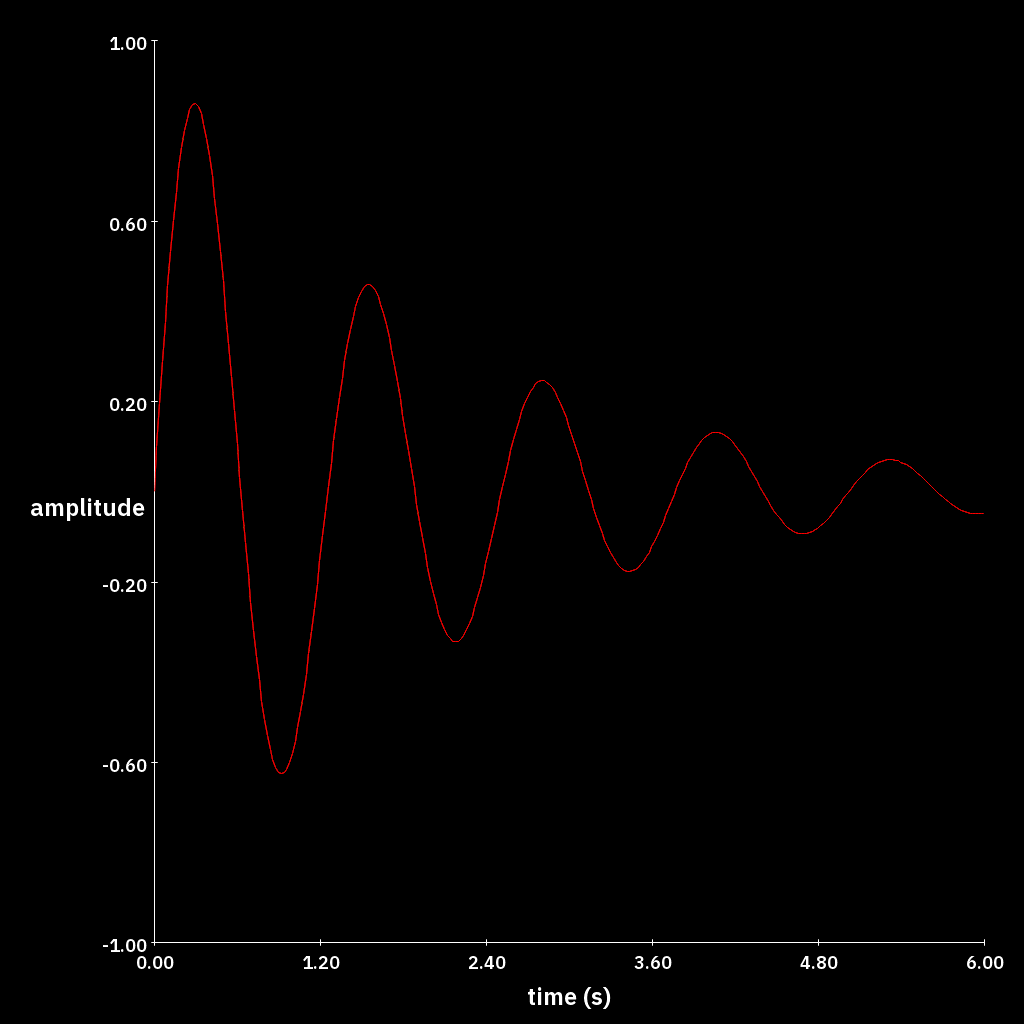
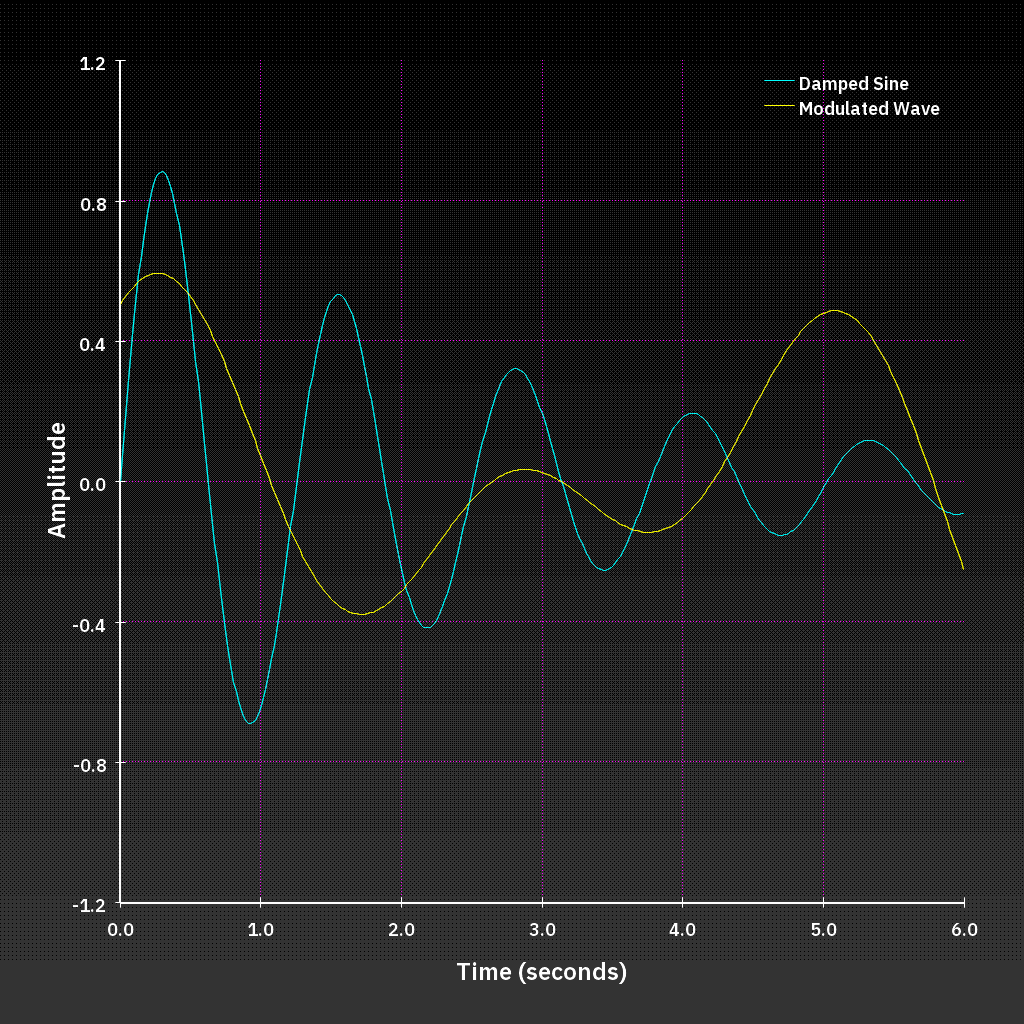
.

diff --git a/examples/graph/example_graph.cpp b/examples/graph/example_graph.cpp
@@ -9,7 +9,6 @@ using namespace constixel;
 using large_font = ibmplexsans_semibold_24_aa;
 using small_font = ibmplexsans_semibold_18_aa;
 
-// Graph configuration
 constexpr char x_label[] = "Time (seconds)";
 constexpr char y_label[] = "Amplitude";
 constexpr float axis_xmin = 0.0f;
@@ -17,16 +16,15 @@ constexpr float axis_xmax = 6.0f;
 constexpr float axis_ymin = -1.2f;
 constexpr float axis_ymax = +1.2f;
 
-// Color palette
 const uint8_t col_bg_dark = color::BLACK;
-const uint8_t col_bg_light = color::DARK_GRAY;
+const uint8_t col_bg_light = 8;
 const uint8_t col_axis = color::WHITE;
-const uint8_t col_grid = color::GRAY;
+const uint8_t col_grid = 7;
 const uint8_t col_graph_primary = color::CYAN;
 const uint8_t col_graph_secondary = color::YELLOW;
 const uint8_t col_text = color::WHITE;
 
-// Bayer dither pattern for gradient background
+
 constexpr int bayer_matrix[4][4] = {
     { 0,  8,  2, 10},
     {12,  4, 14,  6},
@@ -34,7 +32,6 @@ constexpr int bayer_matrix[4][4] = {
     {15,  7, 13,  5}
 };
 
-// Generate sample data
 auto generate_damped_sine(float x_start, float x_end, float step, float decay_factor) {
     std::vector<std::pair<float, float>> points;
     for (float x = x_start; x <= x_end; x += step) {
@@ -61,69 +58,144 @@ auto generate_secondary_data() {
     return generate_secondary_wave(axis_xmin, axis_xmax, 0.02f);
 }
 
-// ---------------------------
-static constixel::image<constixel::format_8bit, 1024, 1024> img;
+static image<format_8bit, 1024, 1024> img;
 
-auto draw_graph(const char *x_label, const char *y_label, float x_min, float x_max, float y_min, float y_max,
-                const std::vector<std::pair<float, float>> &points, uint8_t axis_col, uint8_t plot_col) {
+void draw_gradient_background() {
+    for (int32_t y = 0; y < img.height(); ++y) {
+        for (int32_t x = 0; x < img.width(); ++x) {
+            float gradient = static_cast<float>(y) / img.height();
+            int dither_threshold = bayer_matrix[y % 4][x % 4];
+            float dither_value = gradient * 16.0f;
+            
+            uint8_t color = (dither_value > dither_threshold) ? col_bg_light : col_bg_dark;
+            img.plot(x, y, color);
+        }
+    }
+}
 
-    const int32_t left_margin = 40 + img.string_width<large_font>(y_label);
-    const int32_t right_margin = 40;
-    const int32_t top_margin = 40;
-    const int32_t bottom_margin = 40 + large_font::size + small_font::size;
+void draw_grid(int32_t x0, int32_t y0, int32_t w, int32_t h) {
+    for (int i = 1; i < 6; ++i) {
+        int32_t x = x0 + i * w / 6;
+        for (int32_t y = y0; y < y0 + h; y += 3) {
+            img.plot(x, y, col_grid);
+        }
+    }
+    
+    for (int i = 1; i < 6; ++i) {
+        int32_t y = y0 + i * h / 6;
+        for (int32_t x = x0; x < x0 + w; x += 3) {
+            img.plot(x, y, col_grid);
+        }
+    }
+}
 
-    int32_t graph_x0 = left_margin;
-    int32_t graph_y0 = top_margin;
-    int32_t graph_w = img.width() - (left_margin + right_margin);
-    int32_t graph_h = img.height() - (top_margin + bottom_margin);
+auto draw_enhanced_graph() {
+    const int32_t left_margin = 120;
+    const int32_t right_margin = 60;
+    const int32_t top_margin = 60;
+    const int32_t bottom_margin = 80 + large_font::size + small_font::size;
 
-    img.fill_rect(0, 0, img.width(), img.height(), background_color);
+    const int32_t graph_x0 = left_margin;
+    const int32_t graph_y0 = top_margin;
+    const int32_t graph_w = img.width() - (left_margin + right_margin);
+    const int32_t graph_h = img.height() - (top_margin + bottom_margin);
 
-    img.draw_line_aa(graph_x0, graph_y0, graph_x0, graph_y0 + graph_h, axis_col);
-    img.draw_line_aa(graph_x0, graph_y0 + graph_h, graph_x0 + graph_w, graph_y0 + graph_h, axis_col);
+    draw_gradient_background();
+    
+    draw_grid(graph_x0, graph_y0, graph_w, graph_h);
 
-    img.draw_string_aa<large_font>(graph_x0 + graph_w / 2 - img.string_width<large_font>(x_label) / 2, graph_y0 + graph_h + 20 + small_font::size, x_label, axis_col);
-    img.draw_string_aa<large_font>(graph_x0 - img.string_width<large_font>(y_label) - 10, graph_y0 + graph_h / 2, y_label, axis_col);
-
-    auto scale_x = [&](float x) {
-        return graph_x0 + (x - x_min) / (x_max - x_min) * graph_w;
-    };
-
-    auto scale_y = [&](float y) {
-        return graph_y0 + graph_h - (y - y_min) / (y_max - y_min) * graph_h;
-    };
-
-    for (size_t i = 1; i < points.size(); ++i) {
-        int32_t x0 = scale_x(points[i - 1].first);
-        int32_t y0 = scale_y(points[i - 1].second);
-        int32_t x1 = scale_x(points[i].first);
-        int32_t y1 = scale_y(points[i].second);
-
-        img.draw_line_aa(x0, y0, x1, y1, plot_col);
+    for (int i = 0; i < 2; ++i) {
+        img.draw_line_aa(graph_x0 - i, graph_y0, graph_x0 - i, graph_y0 + graph_h, col_axis);
+        img.draw_line_aa(graph_x0, graph_y0 + graph_h + i, graph_x0 + graph_w, graph_y0 + graph_h + i, col_axis);
     }
 
-    auto convert_to_string = [](float v) {
+
+    img.draw_string_aa<large_font>(
+        graph_x0 + graph_w / 2 - img.string_width<large_font>(x_label) / 2, 
+        graph_y0 + graph_h + 35 + small_font::size, 
+        x_label, col_text);
+    img.draw_string_aa<large_font, false, DEGREE_270>(
+        graph_x0 - 80, 
+        graph_y0 + graph_h / 2 + img.string_width<large_font>(y_label) / 2, 
+        y_label, col_text);
+
+    auto scale_x = [&](float x) -> int32_t {
+        return graph_x0 + static_cast<int32_t>((x - axis_xmin) / (axis_xmax - axis_xmin) * graph_w);
+    };
+
+    auto scale_y = [&](float y) -> int32_t {
+        return graph_y0 + graph_h - static_cast<int32_t>((y - axis_ymin) / (axis_ymax - axis_ymin) * graph_h);
+    };
+
+    auto primary_data = generate_primary_data();
+    auto secondary_data = generate_secondary_data();
+
+    for (size_t i = 1; i < primary_data.size(); ++i) {
+        int32_t x0 = scale_x(primary_data[i - 1].first);
+        int32_t y0 = scale_y(primary_data[i - 1].second);
+        int32_t x1 = scale_x(primary_data[i].first);
+        int32_t y1 = scale_y(primary_data[i].second);
+        img.draw_line_aa(x0, y0, x1, y1, col_graph_primary);
+    }
+
+    for (size_t i = 1; i < secondary_data.size(); ++i) {
+        int32_t x0 = scale_x(secondary_data[i - 1].first);
+        int32_t y0 = scale_y(secondary_data[i - 1].second);
+        int32_t x1 = scale_x(secondary_data[i].first);
+        int32_t y1 = scale_y(secondary_data[i].second);
+        img.draw_line_aa(x0, y0, x1, y1, col_graph_secondary);
+    }
+
+
+    auto format_value = [](float v) -> std::string {
         std::stringstream stream;
-        stream << std::fixed << std::setprecision(2) << v;
+        stream << std::fixed << std::setprecision(1) << v;
         return stream.str();
     };
 
-    for (int32_t i = 0; i <= 5; ++i) {
-        int32_t tx = graph_x0 + i * graph_w / 5;
-        img.draw_line_aa(tx, graph_y0 + graph_h - 3, tx, graph_y0 + graph_h + 3, axis_col);        
-        std::string x_val = convert_to_string(x_min + ( static_cast<float>(i) / 5.0f) * (x_max - x_min));
-        int32_t wx = img.string_width<small_font>(x_val.c_str());
-        img.draw_string_aa<small_font>(tx - wx/2, graph_y0 + graph_h + 8, x_val.c_str(), axis_col);
-        int32_t ty = graph_y0 + graph_h - i * graph_h / 5;
-        std::string y_val = convert_to_string(y_min + ( static_cast<float>(i) / 5.0f) * (y_max - y_min));
-        int32_t wy = img.string_width<small_font>(y_val.c_str());
-        img.draw_line_aa(graph_x0 - 3, ty, graph_x0 + 3, ty, axis_col);
-        img.draw_string_aa<small_font>(graph_x0 - 8 - wy, ty - small_font::size / 2, y_val.c_str(), axis_col);
+    for (int i = 0; i <= 6; ++i) {
+        int32_t tx = graph_x0 + i * graph_w / 6;
+        
+        img.draw_line_aa(tx, graph_y0 + graph_h - 5, tx, graph_y0 + graph_h + 5, col_axis);
+        
+        float x_val = axis_xmin + (static_cast<float>(i) / 6.0f) * (axis_xmax - axis_xmin);
+        std::string x_label_text = format_value(x_val);
+        int32_t label_width = img.string_width<small_font>(x_label_text.c_str());
+        img.draw_string_aa<small_font>(
+            tx - label_width / 2, 
+            graph_y0 + graph_h + 15, 
+            x_label_text.c_str(), col_text);
     }
+
+    for (int i = 0; i <= 6; ++i) {
+        int32_t ty = graph_y0 + graph_h - i * graph_h / 6;
+        
+        img.draw_line_aa(graph_x0 - 5, ty, graph_x0 + 5, ty, col_axis);
+        
+        float y_val = axis_ymin + (static_cast<float>(i) / 6.0f) * (axis_ymax - axis_ymin);
+        std::string y_label_text = format_value(y_val);
+        int32_t label_width = img.string_width<small_font>(y_label_text.c_str());
+        img.draw_string_aa<small_font>(
+            graph_x0 - 15 - label_width, 
+            ty - small_font::size / 2, 
+            y_label_text.c_str(), col_text);
+    }
+
+
+    const int32_t legend_x = graph_x0 + graph_w - 200;
+    const int32_t legend_y = graph_y0 + 20;
+    
+    img.draw_line_aa(legend_x, legend_y, legend_x + 30, legend_y, col_graph_primary);
+    img.draw_string_aa<small_font>(legend_x + 35, legend_y - small_font::size / 2, "Damped Sine", col_text);
+    
+    img.draw_line_aa(legend_x, legend_y + 25, legend_x + 30, legend_y + 25, col_graph_secondary);
+    img.draw_string_aa<small_font>(legend_x + 35, legend_y + 25 - small_font::size / 2, "Modulated Wave", col_text);
+
     return img;
 }
 
 int main() {
-    static auto plot_image = draw_graph(x_label, y_label, axis_xmin, axis_xmax, axis_ymin, axis_ymax, generate_plot(), axis_color, graph_color);
-    plot_image.sixel_to_cout();
+    static auto enhanced_plot = draw_enhanced_graph();
+    enhanced_plot.sixel_to_cout();
+    return 0;
 }

diff --git a/examples/shader_fill/example_shader_fill.cpp b/examples/shader_fill/example_shader_fill.cpp
@@ -1,0 +1,144 @@
+#include "constixel.hpp"
+
+#include "fonts/ibmplexsans_semibold_18_mono.hpp"
+using font = constixel::ibmplexsans_semibold_18_mono;
+
+#include <array>
+#include <cmath>
+#include <fstream>
+
+int main() {
+    using namespace constixel;
+    
+    static image<format_32bit, 1024, 768> img;
+    
+    // Clear background
+    img.fill_rect(0, 0, static_cast<int32_t>(img.width()), static_cast<int32_t>(img.height()), color::BLACK);
+    
+    // Title
+    img.draw_string_mono<font>(20, 20, "Constixel Shader Fill Demo - All Shapes", color::WHITE);
+    
+    // === RECTANGLES ===
+    img.draw_string_mono<font>(20, 50, "Rectangles:", color::CYAN);
+    
+    // Linear gradient rectangle
+    img.fill_rect(50, 70, 150, 80, [](float u, float /* v */, float /* au */, float /* av */) -> std::array<float, 4> {
+        return {1.0f - u, 0.0f, u, 1.0f}; // Red to blue horizontally
+    });
+    img.draw_string_mono<font>(50, 155, "Linear Gradient", color::WHITE);
+    
+    // Radial gradient rectangle
+    img.fill_rect(220, 70, 150, 80, [](float u, float v, float /* au */, float /* av */) -> std::array<float, 4> {
+        float cx = 0.5f, cy = 0.5f;
+        float dist = std::sqrt((u - cx) * (u - cx) + (v - cy) * (v - cy));
+        float intensity = std::max(0.0f, 1.0f - dist * 2.0f);
+        return {intensity, intensity * 0.8f, 1.0f, 1.0f};
+    });
+    img.draw_string_mono<font>(220, 155, "Radial Gradient", color::WHITE);
+    
+    // Checkerboard rectangle
+    img.fill_rect(390, 70, 150, 80, [](float u, float v, float /* au */, float /* av */) -> std::array<float, 4> {
+        int checker = (int(u * 8) + int(v * 8)) % 2;
+        float gray = checker ? 1.0f : 0.2f;
+        return {gray, gray, gray, 1.0f};
+    });
+    img.draw_string_mono<font>(390, 155, "Checkerboard", color::WHITE);
+    
+    // === CIRCLES ===
+    img.draw_string_mono<font>(20, 185, "Circles:", color::CYAN);
+    
+    // Radial gradient circle
+    img.fill_circle_aa(125, 240, 40, [](float u, float v, float /* au */, float /* av */) -> std::array<float, 4> {
+        float cx = 0.5f, cy = 0.5f;
+        float dist = std::sqrt((u - cx) * (u - cx) + (v - cy) * (v - cy));
+        float intensity = std::max(0.0f, 1.0f - dist * 2.0f);
+        return {intensity, intensity * 0.8f, 1.0f, 1.0f}; // Blue center fading out
+    });
+    img.draw_string_mono<font>(85, 290, "Radial Circle", color::WHITE);
+    
+    // Pattern circle
+    img.fill_circle_aa(295, 240, 40, [](float u, float v, float /* au */, float /* av */) -> std::array<float, 4> {
+        float rings = std::sin((u + v) * 10.0f) * 0.5f + 0.5f;
+        return {rings, 1.0f - rings, rings * 0.5f, 1.0f};
+    });
+    img.draw_string_mono<font>(250, 290, "Pattern Circle", color::WHITE);
+    
+    // Spiral circle
+    img.fill_circle_aa(465, 240, 40, [](float u, float v, float /* au */, float /* av */) -> std::array<float, 4> {
+        float cx = 0.5f, cy = 0.5f;
+        float dx = u - cx, dy = v - cy;
+        float angle = std::atan2(dy, dx);
+        float dist = std::sqrt(dx * dx + dy * dy);
+        float spiral = std::sin(angle * 3.0f + dist * 15.0f) * 0.5f + 0.5f;
+        return {spiral, spiral * 0.7f, 1.0f - spiral, 1.0f};
+    });
+    img.draw_string_mono<font>(425, 290, "Spiral Circle", color::WHITE);
+    
+    // === ROUNDED RECTANGLES ===
+    img.draw_string_mono<font>(20, 320, "Rounded Rectangles:", color::CYAN);
+    
+    // Gradient rounded rectangle
+    img.fill_round_rect_aa(50, 350, 150, 80, 20, [](float u, float v, float /* au */, float /* av */) -> std::array<float, 4> {
+        return {u, v, 1.0f - u, 1.0f}; // Corner-to-corner gradient
+    });
+    img.draw_string_mono<font>(50, 440, "Gradient RoundRect", color::WHITE);
+    
+    // Wave pattern rounded rectangle
+    img.fill_round_rect_aa(220, 350, 150, 80, 20, [](float u, float v, float /* au */, float /* av */) -> std::array<float, 4> {
+        float wave = (std::sin(u * 8.0f) + std::sin(v * 8.0f)) * 0.5f + 0.5f;
+        return {wave, wave * 0.5f, 1.0f - wave, 1.0f};
+    });
+    img.draw_string_mono<font>(220, 440, "Wave RoundRect", color::WHITE);
+    
+    // Complex pattern rounded rectangle
+    img.fill_round_rect_aa(390, 350, 150, 80, 20, [](float u, float v, float /* au */, float /* av */) -> std::array<float, 4> {
+        float x = (u - 0.5f) * 4.0f;
+        float y = (v - 0.5f) * 4.0f;
+        float r = std::sqrt(x * x + y * y);
+        float intensity = std::sin(r * 2.0f) * std::exp(-r * 0.5f) * 0.5f + 0.5f;
+        return {intensity, intensity * 0.7f, 1.0f - intensity, 1.0f};
+    });
+    img.draw_string_mono<font>(390, 440, "Math RoundRect", color::WHITE);
+    
+    // === LARGE SHOWCASE ===
+    img.draw_string_mono<font>(20, 470, "Complex Showcase:", color::CYAN);
+    
+    // Large complex mathematical pattern
+    img.fill_rect(50, 500, 350, 120, [](float u, float v, float /* au */, float /* av */) -> std::array<float, 4> {
+        float x = (u - 0.5f) * 8.0f;
+        float y = (v - 0.5f) * 8.0f;
+        float r = std::sqrt(x * x + y * y);
+        
+        // Multiple overlapping effects
+        float ripple = std::sin(r * 1.5f - 8.0f) * std::exp(-r * 0.3f);
+        float spiral = std::sin(std::atan2(y, x) * 4.0f + r * 2.0f);
+        float waves = std::sin(u * 12.0f) * std::sin(v * 12.0f);
+        
+        float red = (ripple + 1.0f) * 0.5f;
+        float green = (spiral + 1.0f) * 0.3f + 0.2f;
+        float blue = (waves + 1.0f) * 0.4f + 0.3f;
+        
+        return {red, green, blue, 1.0f};
+    });
+    img.draw_string_mono<font>(50, 630, "Combined: Ripple + Spiral + Waves", color::WHITE);
+    
+    // Large showcase circle
+    img.fill_circle_aa(500, 560, 60, [](float u, float v, float /* au */, float /* av */) -> std::array<float, 4> {
+        float cx = 0.5f, cy = 0.5f;
+        float dx = u - cx, dy = v - cy;
+        float dist = std::sqrt(dx * dx + dy * dy);
+        float angle = std::atan2(dy, dx);
+        
+        // Mandala-like pattern
+        float petals = std::sin(angle * 6.0f) * 0.5f + 0.5f;
+        float rings = std::sin(dist * 12.0f) * 0.5f + 0.5f;
+        float fade = std::max(0.0f, 1.0f - dist * 1.5f);
+        
+        return {petals * fade, rings * fade, fade, 1.0f};
+    });
+    img.draw_string_mono<font>(440, 630, "Mandala Circle", color::WHITE);
+    
+    img.png_to_iterm();
+    
+    return 0;
+}
